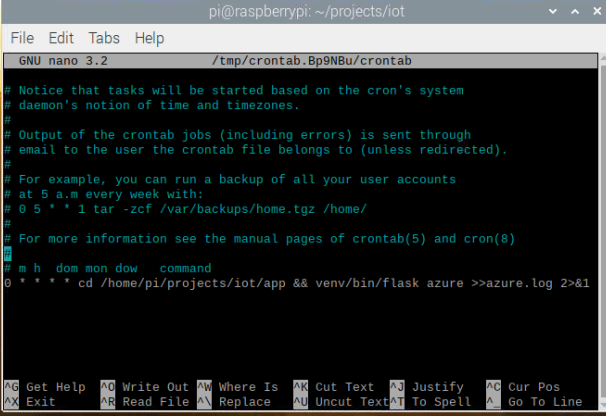
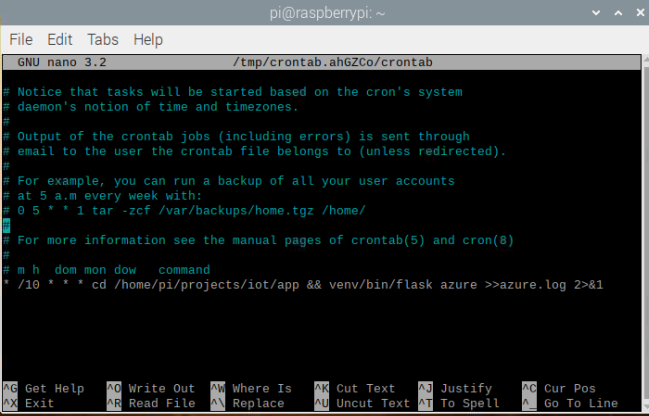
iot apps update every 10 minutes now

Changed region(s): [[0.0, 0.0, 1.0, 1.0]]

diff --git a/index.html b/index.html
@@ -221,7 +221,7 @@
                                     src="assets/img/static_layout.PNG" alt="" class="thumbnail-img"></a>
                         </div>
                         <div class="col-lg-7 text-center">
-                            <p class="lead text-left"><strong>Description: </strong>The second project done at Eleven Fifty Academy. I was
+                            <p class="lead text-left"><strong>Description: </strong> The second project done at Eleven Fifty Academy. I was
                             tasked with recreating a static website from a provided list. I choose <a href="https://www.kastapp.co/"
                                 class="download">kastapp.co</a>. I used HTML, CSS & a small amount of JS.</p>
                         </div>
@@ -240,7 +240,7 @@
                             <a href="https://codepen.io/sicknick92/pen/QWEJeLq" target="blank"><img src="assets/img/jack-o-lanterns.PNG" alt="" class="thumbnail-img"></a>
                         </div>
                         <div class="col-lg-7 text-center">
-                            <p class="lead text-left"><strong>Description: </strong>This project was the first project I did at Eleven Fifty Academy. We were instructed to create a creature using only HTML & CSS. I decided to create Jack-O-Lanterns that light up when you hover over them and add some motion to them to add more complexity</p>
+                            <p class="lead text-left"><strong>Description: </strong> This project was the first project I did at Eleven Fifty Academy. We were instructed to create a creature using only HTML & CSS. I decided to create Jack-O-Lanterns that light up when you hover over them and add some motion to them to add more complexity</p>
                         </div>
                         <div class="col-lg-12 text-center">
                             <a href="https://codepen.io/sicknick92/pen/QWEJeLq" class="github-link" target="blank"><i class="github-link fab fa-codepen fa-3x grow"></i></a>
@@ -251,7 +251,7 @@
                 <!-- Parameter Extractor content -->
                 <div class="col-md-12 thumbnail-content fuji-content text-center" id="fuji-content">
                     <h2>Parameter Extractor</h2>
-                    <p class="lead text-left"><strong>Description: </strong>I was asked to develop software to connect to a PLC (Programable Logic Controller) to       download/upload parameters, of the current program recipe. Using python, wxpython, and a Ethernet/IP (a common server/client Industrial Communication protocol) python library, I was able to accomplish this task. I setup a database, so that admins could login and add/remove certain parameters or even UDTs (User Defined Tags). They are sort of like <u>struct</u> in C, or a user defined datatype that contains variables of base datatypes, int, dint, etc., that are defined in a specific layout. I also made a feature for field-service engineers (FSEs) to be able to import/export parameters to CSV format. This came in handy when a operator would mess with the recipe and couldn't get it to work again. All the FSEhad to do was load the last working recipe!</p>
+                    <p class="lead text-left"><strong>Description: </strong> I was asked to develop software to connect to a PLC (Programable Logic Controller) to       download/upload parameters, of the current program recipe. Using python, wxpython, and a Ethernet/IP (a common server/client Industrial Communication protocol) python library, I was able to accomplish this task. I setup a database, so that admins could login and add/remove certain parameters or even UDTs (User Defined Tags). They are sort of like <u>struct</u> in C, or a user defined datatype that contains variables of base datatypes, int, dint, etc., that are defined in a specific layout. I also made a feature for field-service engineers (FSEs) to be able to import/export parameters to CSV format. This came in handy when a operator would mess with the recipe and couldn't get it to work again. All the FSEhad to do was load the last working recipe!</p>
                     <p class="lead text-left">This project is owned by Fuji Seal and is proprietary software and can not be
                         made public, but below are some screenshots</p>
                     <div class="text-center">
@@ -275,7 +275,7 @@
                             </div>
                         </div>
                         <div class="col-lg-7">
-                            <p class="lead text-left"><strong>Description:</strong>This looks up the top 5 artist you listen
+                            <p class="lead text-left"><strong>Description:</strong> This looks up the top 5 artist you listen
                                 to and displays them on this page! And if you click on them it will take you to there spotify page.</p>
                             <div class="col text-center">
                                 <span class="btn btn-lg btn-primary" href="" role="button" id="spotify">Try it out!</span>
@@ -293,7 +293,7 @@
                 <div class="col-md-12 thumbnail-content device-content text-center" id="device-content">
                         <h2>Azure IoT Device</h2>
                         <div class="lead text-left">
-                            <p class="lead text-left"><strong>Description:</strong>This flask application is running on a raspberry pi, and it sends telemetry data to an Azure IoT Hub. I created a custom flask cli command, so that I could use cron to run it every hour. Why flask? Well I plan on using flask to create a small webserver so that I can view my data locally. Also it is easy to hide and save my environment variables with dotenv library. So, why not just start with a flask application!</p>
+                            <p class="lead text-left"><strong>Description:</strong> This flask application is running on a raspberry pi, and it sends telemetry data to an Azure IoT Hub. I created a custom flask cli command, so that I could use cron to run it every 10 minutes. Why flask? Well I plan on using flask to create a small webserver so that I can view my data locally. Also it is easy to hide and save my environment variables with dotenv library. So, why not just start with a flask application!</p>
                             <div class="text-center" style="margin-bottom: 20px;">
                                 <img src="assets/img/rpi-iot-terminal.PNG" alt="" class="col-md-5 img-fluid screenshots-lg">
                                 <img src="assets/img/azure-terminal.PNG" alt="" class="col-md-5 img-fluid screenshots-lg">
@@ -313,12 +313,11 @@
                         <h2 class="col-lg-12 text-center">Serverless Azure IoT App</h2>
                         <div class="col-lg-5 text-center"><a href="https://nsnyder1992.github.io/iot-serverless-app/" target="blank" id="device-insert"></a></div>
                         <div class="col-lg-7">
-                            <p class="lead text-left"><strong>Description:</strong>Using Azure's cloud platform, I created this
+                            <p class="lead text-left"><strong>Description:</strong> Using Azure's cloud platform, I created this
                                 application by routing the messages sent from my IoT Device project's IoT Hub to a Function App. The function app then
                                 logs the message in a NoSQL DB. And then when this page loads it sends a request to the Function app and
                                 gets the last update. Now please keep in mind, in order to keep the cost down for the iot hub and function app, I
-                                only update this information every hour. And requests to the
-                                Function App can only be made every 10min. You can check the code out on my github. Click the github icon
+                                only update this information every 10 minutes. You can check the code out on my github. Click the github icon
                                 below.
                             </p>
                             <div id="spotify-insert"></div>
